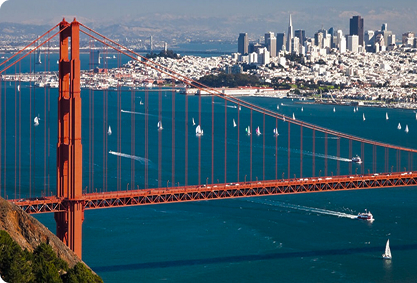
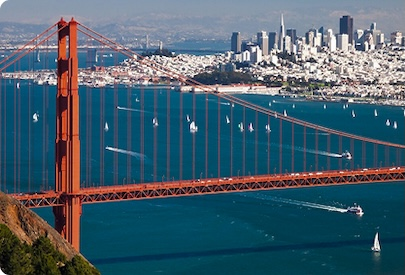
fixed pagination bullet spacing

diff --git a/src/pages/home/home.jsx b/src/pages/home/home.jsx
@@ -173,7 +173,7 @@ function home() {
 
         <Box
           sx={{
-            mt: { xs: 2, lg: 15, xl: 30},
+            mt: { xs: 2, lg: 20, },
             mb: { xs: 2, lg: 5, xl: 5},
             // my: { xs: 2, sm: 4, lg: 13, xl: 15 },
             display: "flex",

diff --git a/src/theme.jsx b/src/theme.jsx
@@ -43,7 +43,7 @@ let theme = createTheme({
         },
         body3: {
             fontFamily: 'Libre Baskerville',
-            fontSize: '1.7rem'
+            fontSize: '1.5rem'
         },
         accessories: {
             fontFamily: 'Pontano Sans',

diff --git a/src/components/carousel.css b/src/components/carousel.css
@@ -7,7 +7,7 @@
 
 .swiper-slide img {
   width: 100%;
-  height: 100%;
+  height: 50vh;
   object-fit: cover;
   border-radius: 10px;
 }
